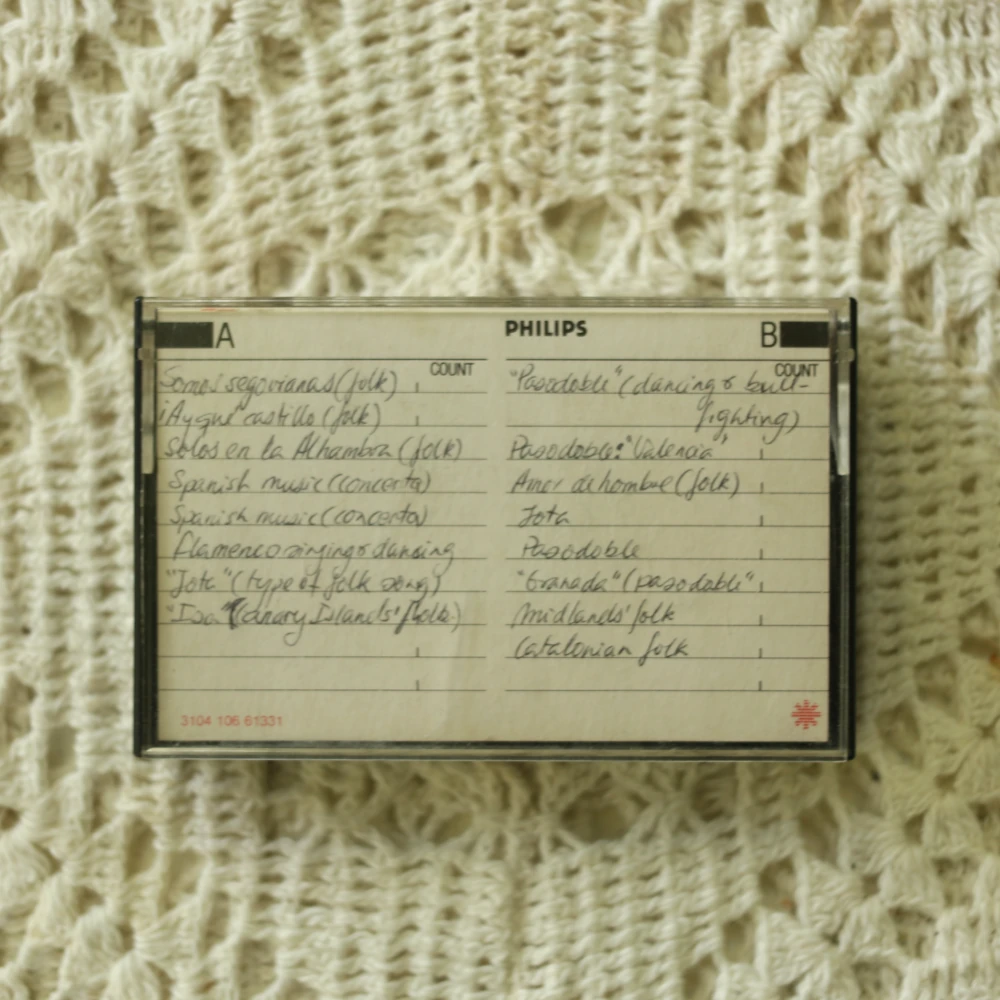
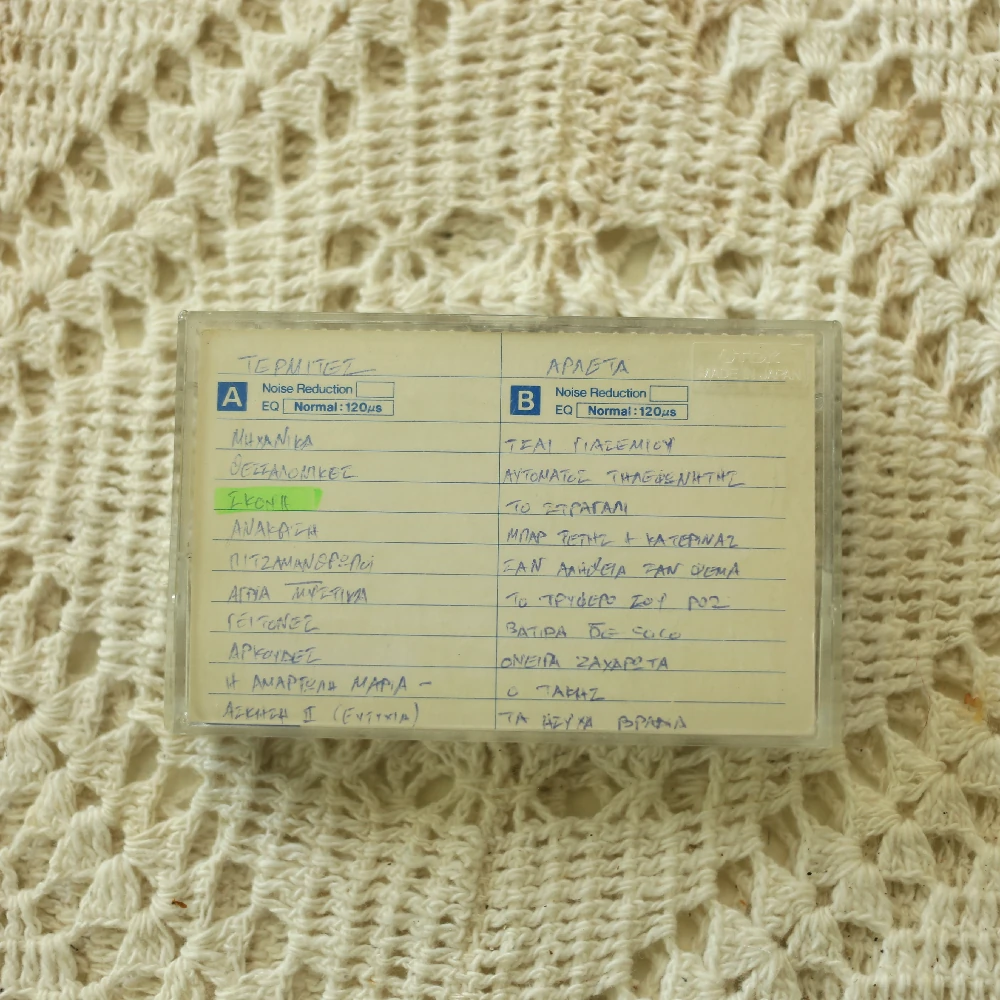
current working version

diff --git a/app.js b/app.js
@@ -5,27 +5,27 @@
 const albums = [
     {
         number: "001",
-        artist: "Artist One",
-        title: "Album One",
+        artist: "Τερμίτες / Αρλετα",
+        title: "Τσαι Γιασεμιου / Η Αμαρτωλή Μαρία",
         image: "images/001.webp",
-        youtube: "#",
-        spotify: "#"
+        youtube: "https://music.youtube.com/playlist?list=PLMUwsVAm8oVQ&si=iBqj9Ve_a3-9-frA",
+        spotify: "https://open.spotify.com/playlist/3OhdpVcjGyaB2HYckW5nZy?si=9_sAvJhuTpyJDT_fQ0p3gQ"
     },
     {
         number: "002",
-        artist: "Artist Two",
-        title: "Album Two",
+        artist: "Iggy Pop",
+        title: "Brick by Brick",
         image: "images/002.webp",
-        youtube: "#",
-        spotify: "#"
+        youtube: "https://music.youtube.com/playlist?list=PLZgOZEuYOqlo&si=G0v2FpCKuSeZgyix",
+        spotify: "https://open.spotify.com/playlist/7yCVVekzvWkTtpHcdDca77?si=j5da_TJcRoGkuEIiolgzTA"
     },
     {
         number: "003",
-        artist: "Artist Three",
-        title: "Album Three",
+        artist: "Eric Burdon and The Animals",
+        title: "House Of The Rising Sun",
         image: "images/003.webp",
-        youtube: "#",
-        spotify: "#"
+        youtube: "https://music.youtube.com/playlist?list=PLe_tymhD-nsc&si=82lpoi_5RwJ66WqG",
+        spotify: "https://open.spotify.com/playlist/3dk7OjsUoybL7ElebhhUEy?si=5c19b4877d914e17"
     }
 ];
 
